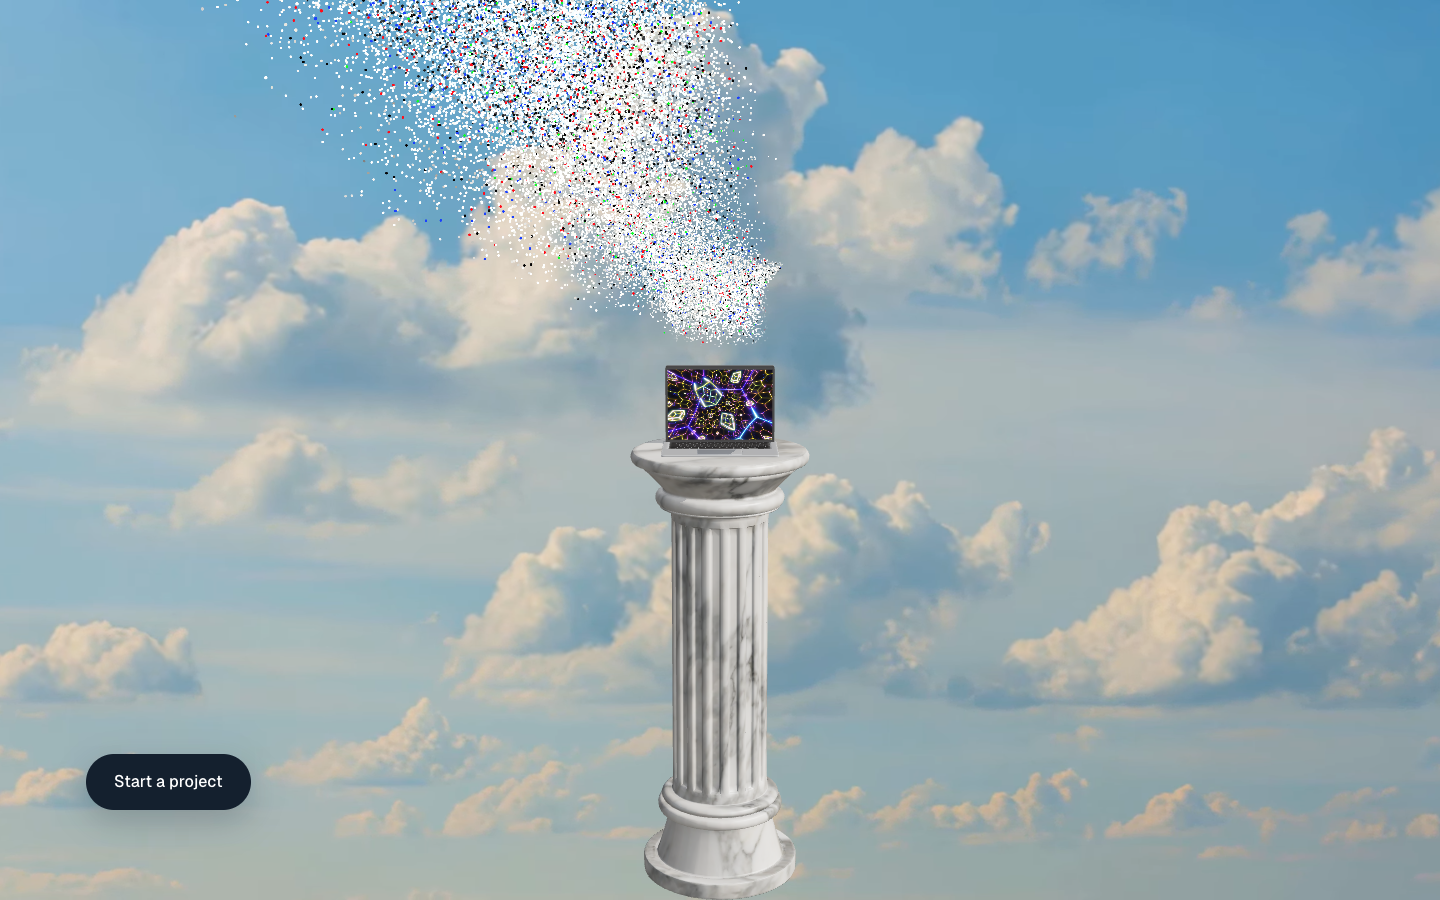
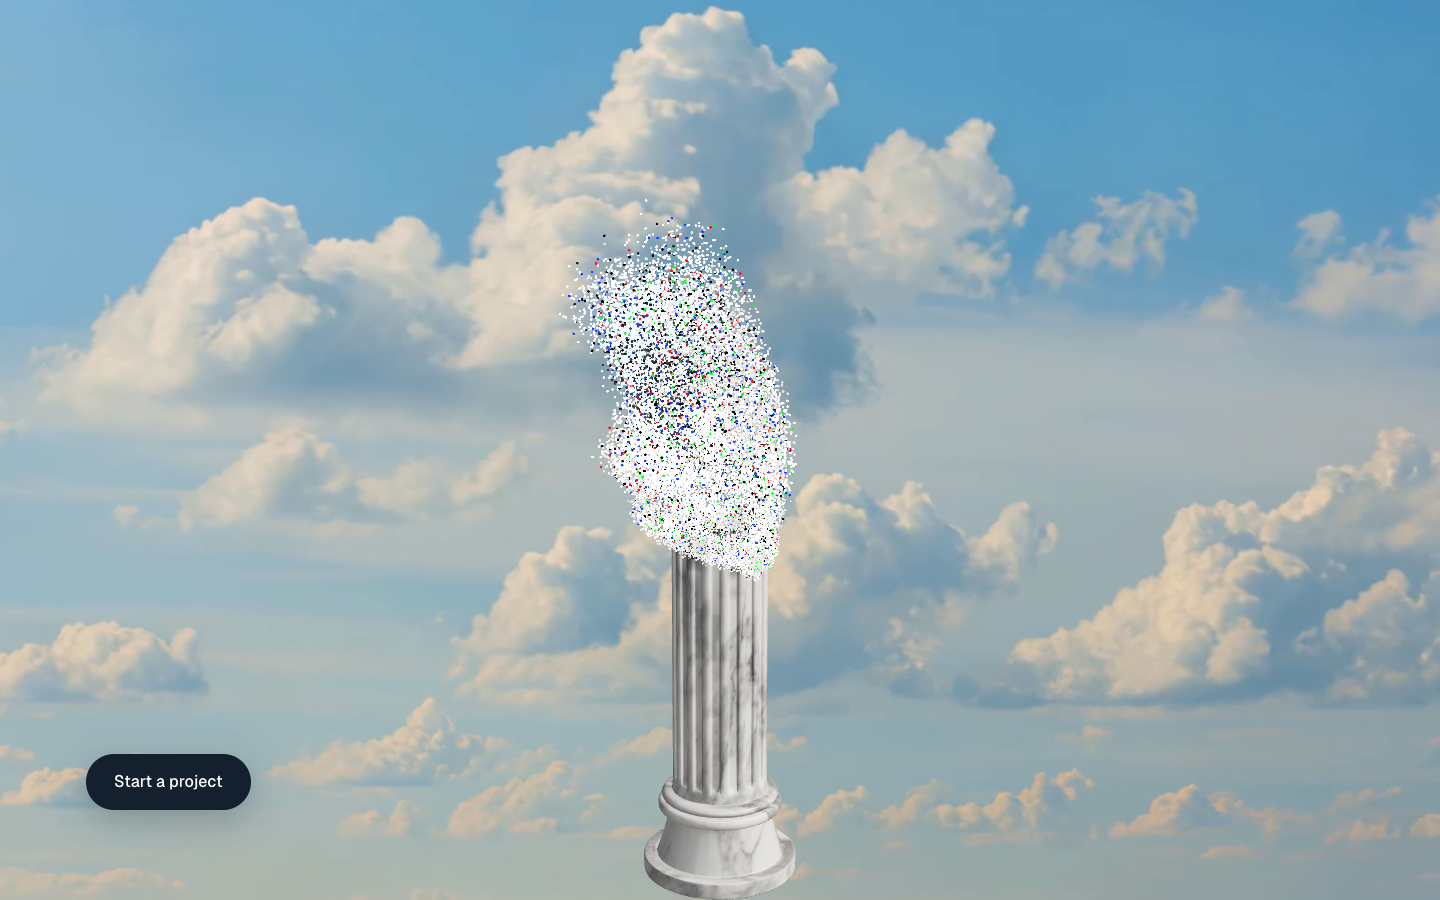
Pillar vanish recalibrated: dust and cut offset by the rig's slide, launch order tighter, slower lift off, solid looking cut on the thin shells
Claude-Session: https://claude.ai/code/session_01NAdPXLUXCGhh82qBsMYyAh

diff --git a/src/hero/Morph.tsx b/src/hero/Morph.tsx
@@ -5,6 +5,7 @@ import * as THREE from "three";
 import { BEATS, Q, ease, remap } from "./beats";
 import { progress } from "./progress";
 import { MODEL_VERSION } from "./Statue";
+import { rigState } from "./rigState";
 
 /**
  * The vaporise. One THREE.Points over the statue's sampled surface (tools/blender/03_sample_points.py).
@@ -25,6 +26,7 @@ const vert = /* glsl */ `
   uniform float uProgress;   // 0..1 across the vaporise
   uniform float uRebuild;    // 0..1 across the rebuild
   uniform float uUnbuild;    // 0..1 as the pillar and laptop come apart again, top down
+  uniform float uRigY;       // where the pillar rig sits now, relative to where it was sampled
   uniform float uSettle;     // 0..1 as the meshes surface and the settled dust dies from the base up
   uniform float uSpread;     // how much of the range the delay sweep takes
   uniform float uTime;
@@ -69,9 +71,10 @@ const vert = /* glsl */ `
       vT = t;
       vec3 jitter = normalize(hash3(vec3(seed * 5.3, seed * 8.9, seed * 2.7)));
       vec3 wind = normalize(vec3(-0.8, 0.9, 0.2));
-      vec3 p = posB;
-      p += curl(posB * 1.6 + vec3(uTime * 0.08, 0.0, 0.0) + t * 1.5) * (0.4 * sin(t * 3.14159) + 0.3 * t);
-      p += (wind + jitter * 0.35) * te * te * 3.0 * (0.8 + 0.4 * seed);
+      vec3 p = posB + vec3(0.0, uRigY, 0.0);
+      float w = t * t;   // from rest, gathering speed
+      p += curl(posB * 1.6 + vec3(uTime * 0.08, 0.0, 0.0) + t * 1.5) * (0.3 * sin(t * 3.14159) + 0.25 * t);
+      p += (wind + jitter * 0.35) * w * 2.4 * (0.8 + 0.4 * seed);
       vFade = smoothstep(0.0, 0.02, t) * (1.0 - smoothstep(0.35, 1.0, t));
       vec3 stone = clamp(colB * 1.25 + 0.06, 0.0, 1.0);
       vec3 col = mix(stone, vec3(0.88, 0.92, 0.97), smoothstep(0.3, 1.0, t));
@@ -205,7 +208,7 @@ async function loadPoints(set: "desktop" | "mobile"): Promise<Buffers> {
     colB[i * 3] = f[o + 15]; colB[i * 3 + 1] = f[o + 16]; colB[i * 3 + 2] = f[o + 17];
     delay[i] = f[o + 18];
     // rebuild order: ground up on the pillar, with a little grain so the front is ragged
-    delayB[i] = Math.min(1, (f[o + 10] / maxY) * 0.85 + ((i * 7919) % 1000) / 1000 * 0.15);
+    delayB[i] = Math.min(1, (f[o + 10] / maxY) * 0.9 + ((i * 7919) % 1000) / 1000 * 0.06);
   }
   return { pos, nrm, col, delay, posB, colB, delayB, count: n };
 }
@@ -261,6 +264,7 @@ export function Morph({ set = "desktop", frozen = false }: { set?: "desktop" | "
       uProgress: { value: 0 },
       uRebuild: { value: 0 },
       uUnbuild: { value: 0 },
+      uRigY: { value: 0 },
       uSettle: { value: 0 },
       uSpread: { value: VAPORISE.spread },
       uTime: { value: 0 },
@@ -283,6 +287,7 @@ export function Morph({ set = "desktop", frozen = false }: { set?: "desktop" | "
     m.uniforms.uRebuild.value = r;
     m.uniforms.uSettle.value = settle;
     m.uniforms.uUnbuild.value = unb;
+    m.uniforms.uRigY.value = rigState.y;
     (window as unknown as { __bdMorphU?: number }).__bdMorphU = u;
     m.uniforms.uPixelRatio.value = dpr;
     if (!frozen) m.uniforms.uTime.value += Math.min(dt, 0.05);

diff --git a/src/hero/Rebuild.tsx b/src/hero/Rebuild.tsx
@@ -8,6 +8,7 @@ import { progress } from "./progress";
 import { MODEL_VERSION } from "./Statue";
 import { SETTLE } from "./Morph";
 import { makeDissolve, applyDissolve } from "./dissolve";
+import { rigState } from "./rigState";
 import { screenAspect, portalCamState } from "./PortalScreen";
 
 const COLUMN = `/models/column.glb?v=${MODEL_VERSION}`;
@@ -46,7 +47,7 @@ export function Rebuild({ video, screenTexture }: { video: HTMLVideoElement | nu
           m.frustumCulled = false;
           const mat = m.material as THREE.MeshStandardMaterial;
           if (mat) {
-            mat.side = THREE.DoubleSide;  // the lid and bezel are thin single sided shells
+            mat.side = THREE.DoubleSide;  // thin shells: the cut must show an inside, not a hole
             applyDissolve(mat, rebuildDissolve, "rebuild-dissolve");
           }
         }
@@ -130,8 +131,8 @@ export function Rebuild({ video, screenTexture }: { video: HTMLVideoElement | nu
     // the cut must sit exactly where the dust is launching: a point at normalised height h leaves when
     // unb > (1 - (0.85 h)) * spread, so the surviving surface is everything below h = (1 - unb / spread) / 0.85,
     // converted from the point buffer's height to the dissolve's own height scale
-    const spread = 0.6, sweep = 0.85, maxY = 1.2124, height = COLUMN_TOP + 0.3;
-    const cutForUnbuild = ((1 - unb / spread) / sweep) * (maxY / height);
+    const spread = 0.6, sweep = 0.9, grainMean = 0.03, maxY = 1.2124, height = COLUMN_TOP + 0.3;
+    const cutForUnbuild = (((1 - unb / spread - grainMean) / sweep) * maxY + rigState.y) / height;
     rebuildDissolve.uCut.value = unb > 0 ? Math.max(-0.05, cutForUnbuild) : settle <= 0 ? -1 : settle >= 0.999 ? 1e3 : settle * 1.15;
     g.visible = unb < 0.999;
     const wantShadows = settle > 0 && unb < 0.5;
@@ -160,6 +161,7 @@ export function Rebuild({ video, screenTexture }: { video: HTMLVideoElement | nu
       tmpBox.getCenter(tmpC);
       g.position.y = -down * (tmpC.y - stageTarget.look.y);
     }
+    rigState.y = g.position.y;
     (window as unknown as { __bdRig?: unknown }).__bdRig = { gy: +g.position.y.toFixed(3), rot: +g.rotation.y.toFixed(3), lid: +lidDeg.toFixed(1), down: +down.toFixed(3), sc: screenState.centre.toArray().map((v) => +v.toFixed(3)) };
     const light = ease.smooth(remap(p, 0.83, 0.86));
     screenState.light = light;

diff --git a/src/hero/dissolve.ts b/src/hero/dissolve.ts
@@ -41,7 +41,9 @@ export function applyDissolve(mat: THREE.MeshStandardMaterial, d: Dissolve, key:
         float d = uInvert > 0.5 ? (uCut - edge) : (edge - uCut);
         if (d < 0.0) discard;
         float rim = 1.0 - smoothstep(0.0, uEdge, d);
-        gl_FragColor.rgb *= 1.0 - rim * 0.35;`,
+        gl_FragColor.rgb *= 1.0 - rim * 0.35;
+        // back faces are the inside of a shell seen through the cut: flat dark stone, no lighting tricks
+        if (!gl_FrontFacing) gl_FragColor.rgb = mix(gl_FragColor.rgb, vec3(0.16, 0.16, 0.17), 0.85);`,
       );
   };
   mat.customProgramCacheKey = () => key;

diff --git a/src/hero/rigState.ts b/src/hero/rigState.ts
@@ -1,0 +1,2 @@
+/** The pillar rig's vertical offset after the screen beat. Written by Rebuild, read by the dust and the cut. */
+export const rigState = { y: 0 };
